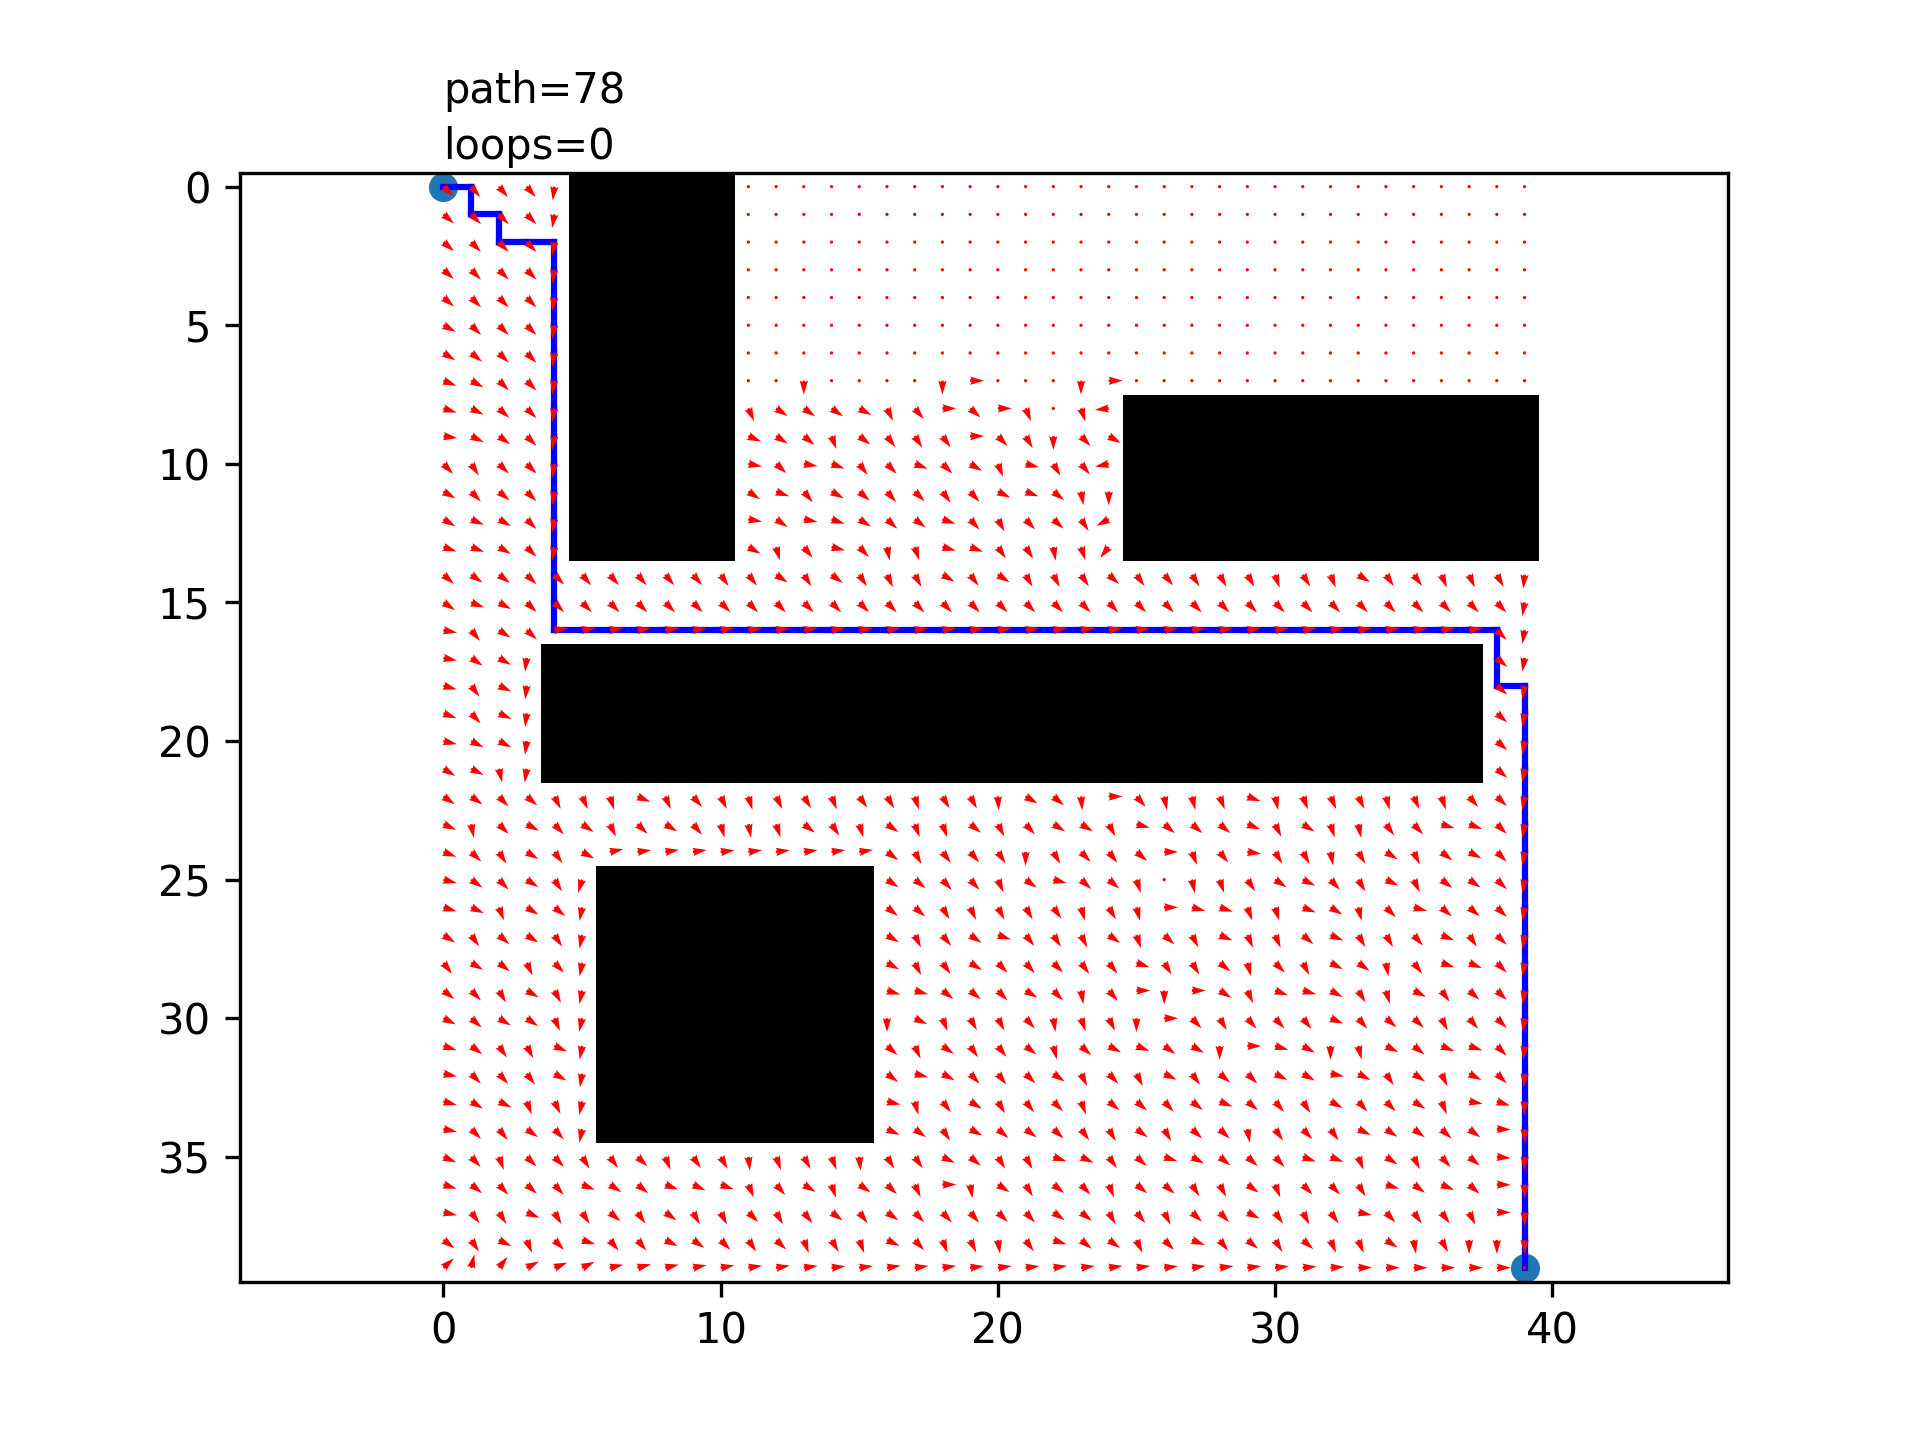
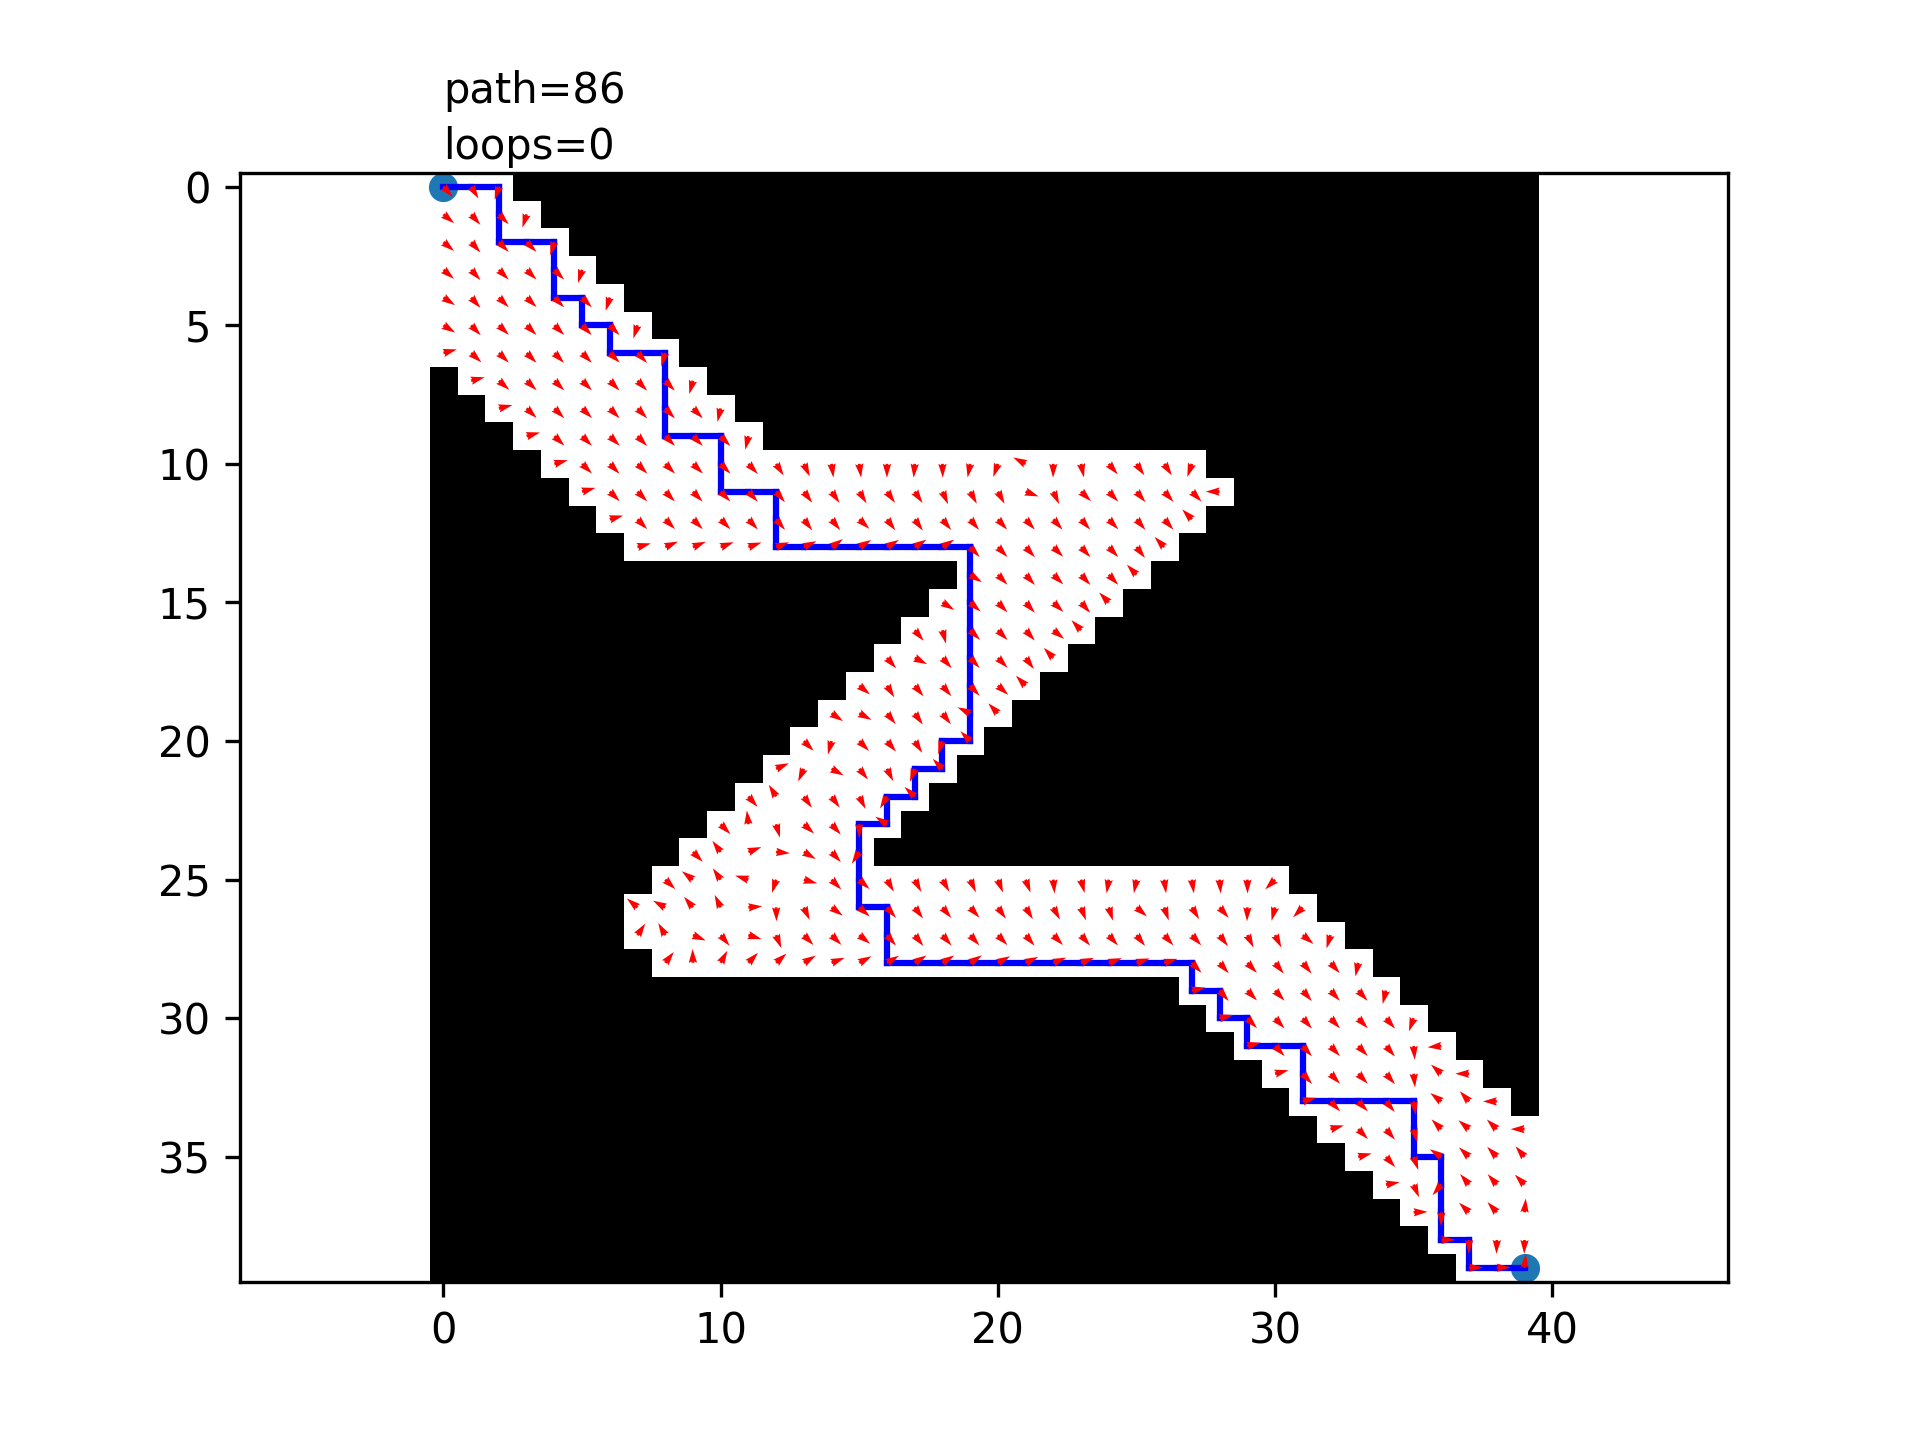
Missed an assignment

Changed region(s): [[0.2188, 0.0938, 0.8125, 0.9062]]

diff --git a/task6.py b/task6.py
@@ -265,7 +265,8 @@ def plot_policy(name: str, agent: Agent, env: GridEnvironment, plot: Literal['ar
       flow = softmax(agent.Q) @ action_delta
       norm = np.linalg.norm(flow, axis=-1, keepdims=True)
       # Avoid a warning with normal division
-      np.divide(flow, norm, out=np.zeros_like(flow), where=norm != 0)
+      flow = np.divide(flow, norm, out=np.zeros_like(flow), where=norm != 0)
+      # Don't draw on obstacles
       flow = np.where(env.map[..., np.newaxis] == 0, np.nan, flow)
     case _:
       raise NotImplementedError(plot)
@@ -303,6 +304,8 @@ def main(todo: str = 'all'):
       case '3': discount_test(grid)
       case '4': reward_test(grid)
       case '5': policy_test(grid)
+      case _:
+        print("Unknown task", task)
   
   # Extra custom map test here if we have time
 
